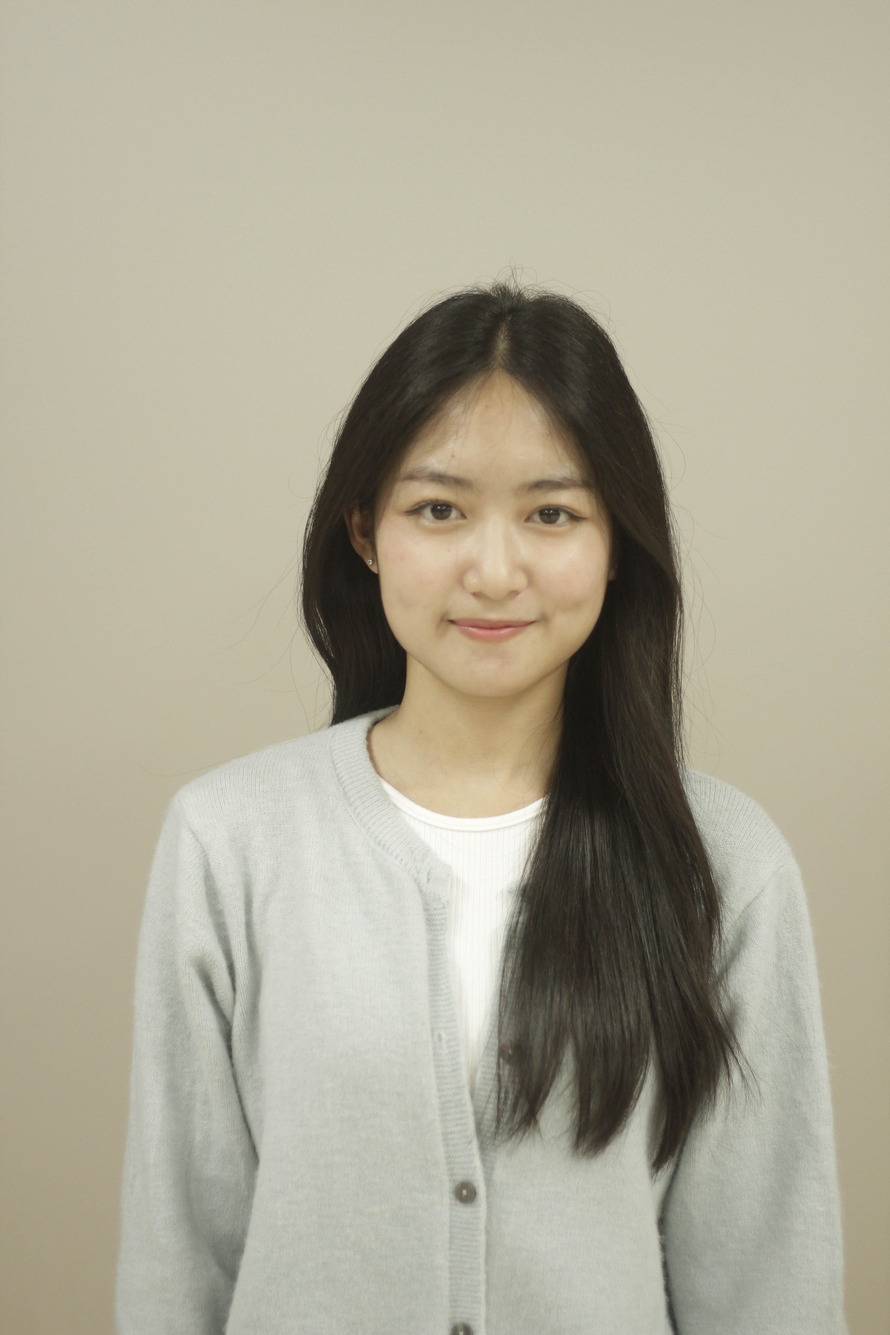
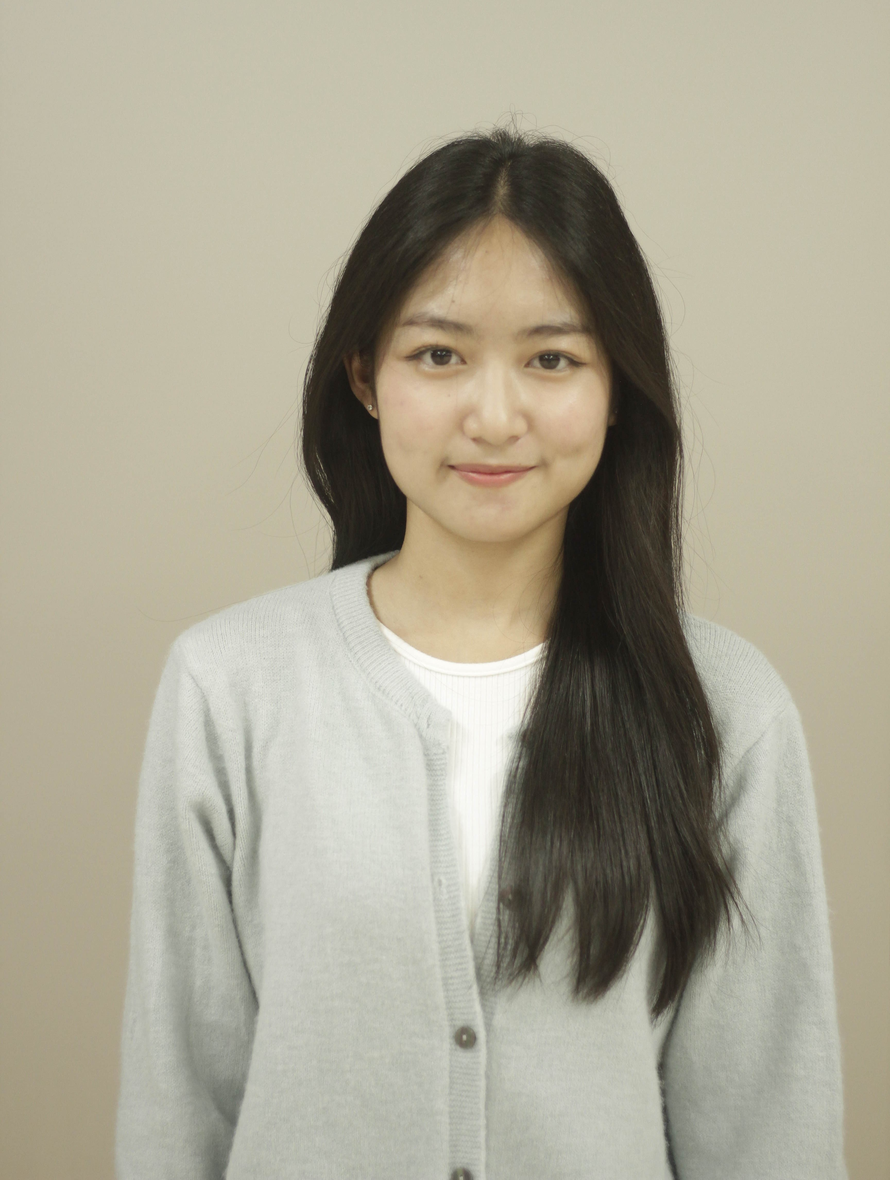
จิปาถะ
-ทำให้ทุกคนสูงเท่าพลอย
-เพิ่ขนนาด h1,h2
-แก้ ui popup

Changed region(s): [[0.1562, 0.0936, 0.9062, 0.9359], [0.9062, 0.6551, 0.9375, 0.7799], [0.2812, 0.8423, 0.3125, 0.8735]]

diff --git a/web/src/app/components/member.tsx b/web/src/app/components/member.tsx
@@ -43,9 +43,9 @@ export default function Member({}: Props) {
 
             {/* ตำแหน่ง กับ ชื่อ */}
             <div className="space-y-1 absolute px-8 bottom-0 h-[150px] flex flex-col items-start justify-center rounded-b-[10px] w-full bg-[linear-gradient(0deg,_var(--tw-gradient-stops))] from-[rgba(28,29,43,1)] via-[rgba(88,68,215,.5)] to-[rgba(88,68,215,0)]">
-              <h4 className="font-extrabold text-[#FFFFFF] break-words w-full">
+              <h5 className="font-extrabold text-[#FFFFFF] break-words w-full">
                 {data.position}
-              </h4>
+              </h5>
               <h5 className="text-[#ECF0FF] w-full">{data.name}</h5>
             </div>
           </div>
@@ -55,11 +55,11 @@ export default function Member({}: Props) {
   {/* Popup แสดงรายละเอียดสมาชิก */}
   {openPopup && modalID !== null && (
         <div className="fixed inset-0 bg-black bg-opacity-80 flex items-center justify-center z-50">
-          <div className="rounded-lg max-w-[90vw] w-full relative">
+          <div className="rounded-lg max-w-[90vw] h-[90vh] w-full relative">
             {/* ปุ่มปิด popup */}
             <button
               onClick={HandleRemovePopUp}
-              className="absolute top-2 right-2 z-[60]"
+              className="flex justify-end w-[100%] z-[60]"
             >
               <Image src="./Close.svg" alt="close" width={50} height={50} />
             </button>
@@ -77,7 +77,7 @@ export default function Member({}: Props) {
             >
               {member_data.map((item) => (
                 <SwiperSlide key={item.id}>
-                  <div className="flex justify-center max-h-[90vh]">
+                  <div className="flex justify-center h-[80vh]">
                     {/* Card รายละเอียดของสมาชิก */}
                     <div className="relative flex flex-row flex-wrap justify-center gap-4 pb-8 px-8 w-fit bg-gradient-to-t from-[#999999] to-[#FFFFFF] overflow-y-auto overflow-x-hidden rounded-[10px]">
                       {/* Effect Gradient Background */}

diff --git a/web/src/app/page.tsx b/web/src/app/page.tsx
@@ -45,9 +45,9 @@ export default function Home() {
               About us
             </h1>
             <p className="text-[1rem]"><span className="font-bold">SCOLDEV</span> เราคือผู้เชี่ยวชาญด้านการพัฒนาเว็บไซต์ สร้างสรรค์ให้ตรงตามความต้องการ และ
-              <br /> ช่วยเสริมศักยภาพทางธุรกิจให้กับลูกค้า โดยมุ่งเน้นการพัฒนาเว็บไซต์ที่ สวยงาม ใช้งานง่าย
-              <br /> และมีประสิทธิภาพ เพื่อสร้างความเชื่อมั่นแก่ผู้ใช้งานและแบรนด์ของคุณ เราให้ความสำคัญ
-              <br /> ตั้งแต่การวิเคราะห์ความต้องการของลูกค้า ไปจนถึงการส่งมอบโซลูชันที่ตอบโจทย์ในทุกมิติ
+               ช่วยเสริมศักยภาพทางธุรกิจให้กับลูกค้า โดยมุ่งเน้นการพัฒนาเว็บไซต์ที่ สวยงาม ใช้งานง่าย
+               และมีประสิทธิภาพ เพื่อสร้างความเชื่อมั่นแก่ผู้ใช้งานและแบรนด์ของคุณ เราให้ความสำคัญ
+               ตั้งแต่การวิเคราะห์ความต้องการของลูกค้า ไปจนถึงการส่งมอบโซลูชันที่ตอบโจทย์ในทุกมิติ
             </p>{" "}
           </div>
           <div

diff --git a/web/src/app/components/portfolio.tsx b/web/src/app/components/portfolio.tsx
@@ -90,7 +90,7 @@ export default function Portfolio({ }: Props) {
                         {/* ปุ่มปิด Popup */}
                         <button
                             onClick={HandleRemovePopUp}
-                            className="absolute top-2 right-2 z-[60]"
+                            className="flex justify-end w-[100%] z-[60]"
                         >
                             <Image 
                                 src={"./Close.svg"} // รูปไอคอนปิด
@@ -113,7 +113,7 @@ export default function Portfolio({ }: Props) {
                             {portfolio_data.map((item) => (
                                 <SwiperSlide key={item.id}>
                                     <div 
-                                        className="overflow-y-auto max-h-[90vh] w-full" // จัดการ scroll ใน modal
+                                        className="overflow-y-auto h-[80vh] w-full" // จัดการ scroll ใน modal
                                         style={{scrollbarWidth:"none"}} // ซ่อน scrollbar
                                     >
                                         <Image

diff --git a/web/src/app/globals.css b/web/src/app/globals.css
@@ -45,11 +45,11 @@ body {
 }
 
 h1 {
-  font-size: 2.5rem;
+  font-size: 3.5rem;
 }
 
 h2 {
-  font-size: 2rem;
+  font-size: 2.5rem;
 }
 
 h3 {
